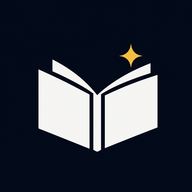
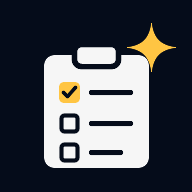
fix: usa ícone próprio de tarefas no padrão YABook

Changed region(s): [[0.1875, 0.125, 0.9062, 0.875]]

diff --git a/skills/yabook/scripts/tasks_runtime/site/sw.js b/skills/yabook/scripts/tasks_runtime/site/sw.js
@@ -1,5 +1,5 @@
 // Cache só da casca do site; dados vêm sempre do servidor local.
-const CACHE = "yabook-tasks-v21";
+const CACHE = "yabook-tasks-v22";
 const SHELL = ["/", "/app.css", "/app.js", "/manifest.webmanifest", "/icon.svg", "/icon-192.png", "/icon-512.png"];
 
 self.addEventListener("install", (event) => {
